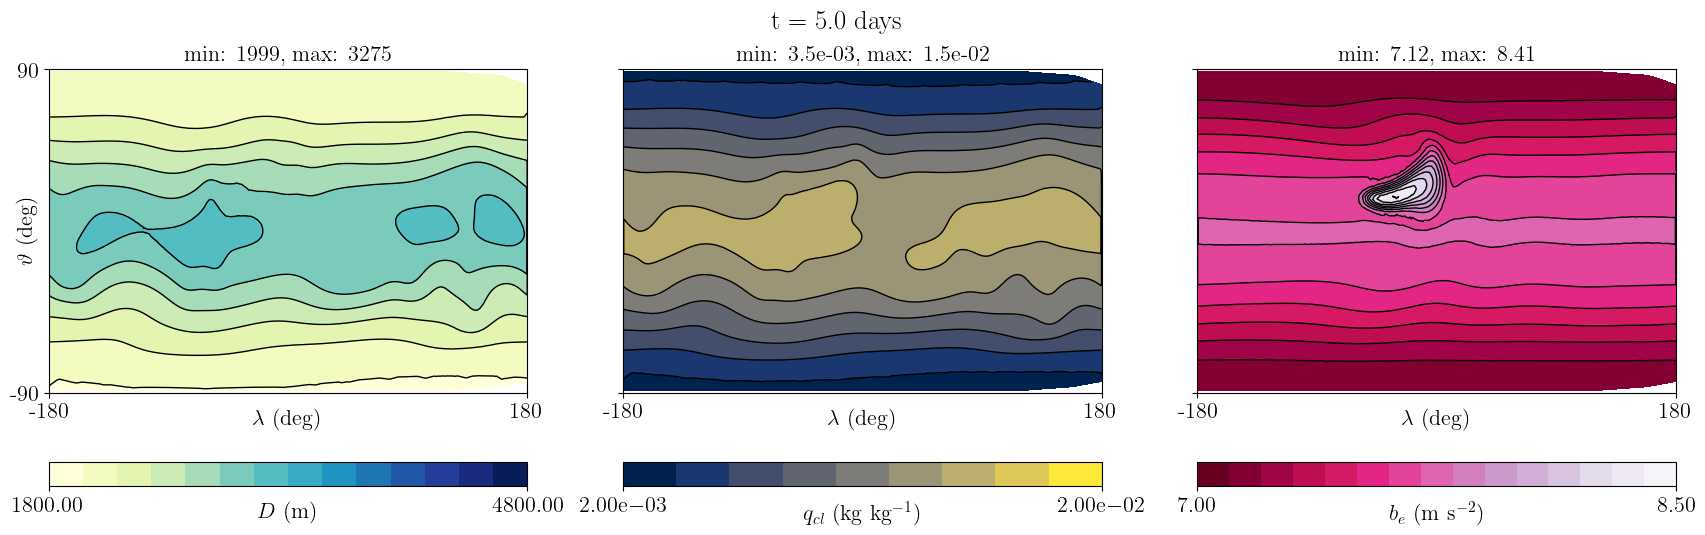
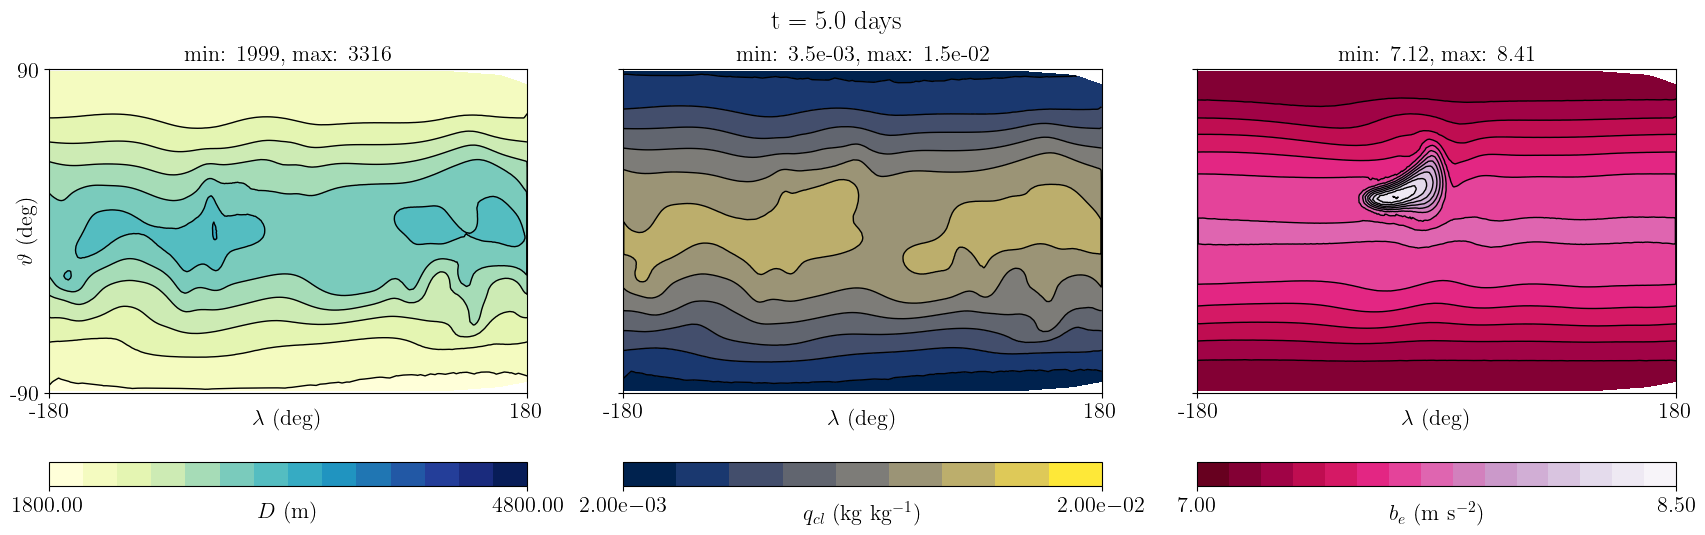
ensure that physics term is included in linear problem

diff --git a/examples/shallow_water/moist_thermal_gw.py b/examples/shallow_water/moist_thermal_gw.py
@@ -12,7 +12,7 @@ This example is implemented in two versions:
 from argparse import ArgumentParser, ArgumentDefaultsHelpFormatter
 from firedrake import (
     SpatialCoordinate, pi, sqrt, min_value, cos, Constant, Function, exp, sin,
-    dx
+    dx, split
 )
 from gusto import (
     Domain, IO, OutputParameters, DGUpwind, ShallowWaterParameters,
@@ -93,15 +93,28 @@ def moist_thermal_gw(
             return sat
 
         # Extract fields from equations
-        _, Dbar, _, _, _ = eqns.X_ref.subfunctions[::]
-        _, D, b, qv, _ = eqns.X.subfunctions[::]
-        _, _, lamda, tau1, tau2 = eqns.tests[::]
+        _, Dbar, _, _, _ = split(eqns.X_ref)
+        _, D, b, qv, _ = split(eqns.X)
+        _, _, lamda, tau1, tau2 = eqns.tests
 
         P_expr = qv - sat_func(eqns.X_ref)*(-D/Dbar - b*nu/g + qv*nu*beta2/g)
-        phys_form = physics_beta * (
-            lamda * beta2 * P_expr + tau1 * P_expr - tau2 * P_expr
-        ) * dx
-        eqns.residual += subject(prognostic(physics_label(phys_form)), eqns.X)
+        phys_b_form = physics_beta * lamda * beta2 * P_expr * dx
+        phys_qv_form = physics_beta * tau1 * P_expr * dx
+        phys_qc_form = -physics_beta * tau2 * P_expr * dx
+        eqns.residual += (
+            subject(prognostic(physics_label(phys_b_form), 'b'), eqns.X)
+        )
+        eqns.residual += (
+            subject(prognostic(physics_label(phys_qv_form), 'water_vapour'), eqns.X)
+        )
+        eqns.residual += (
+            subject(prognostic(physics_label(phys_qc_form), 'cloud_water'), eqns.X)
+        )
+
+        # Add linearisation of these terms
+        eqns.residual = eqns.generate_linear_terms(
+            eqns.residual, lambda t: t.has_label(physics_label)
+        )
 
     # IO
     if dirname == moist_thermal_gw_defaults['dirname'] and equivb:
